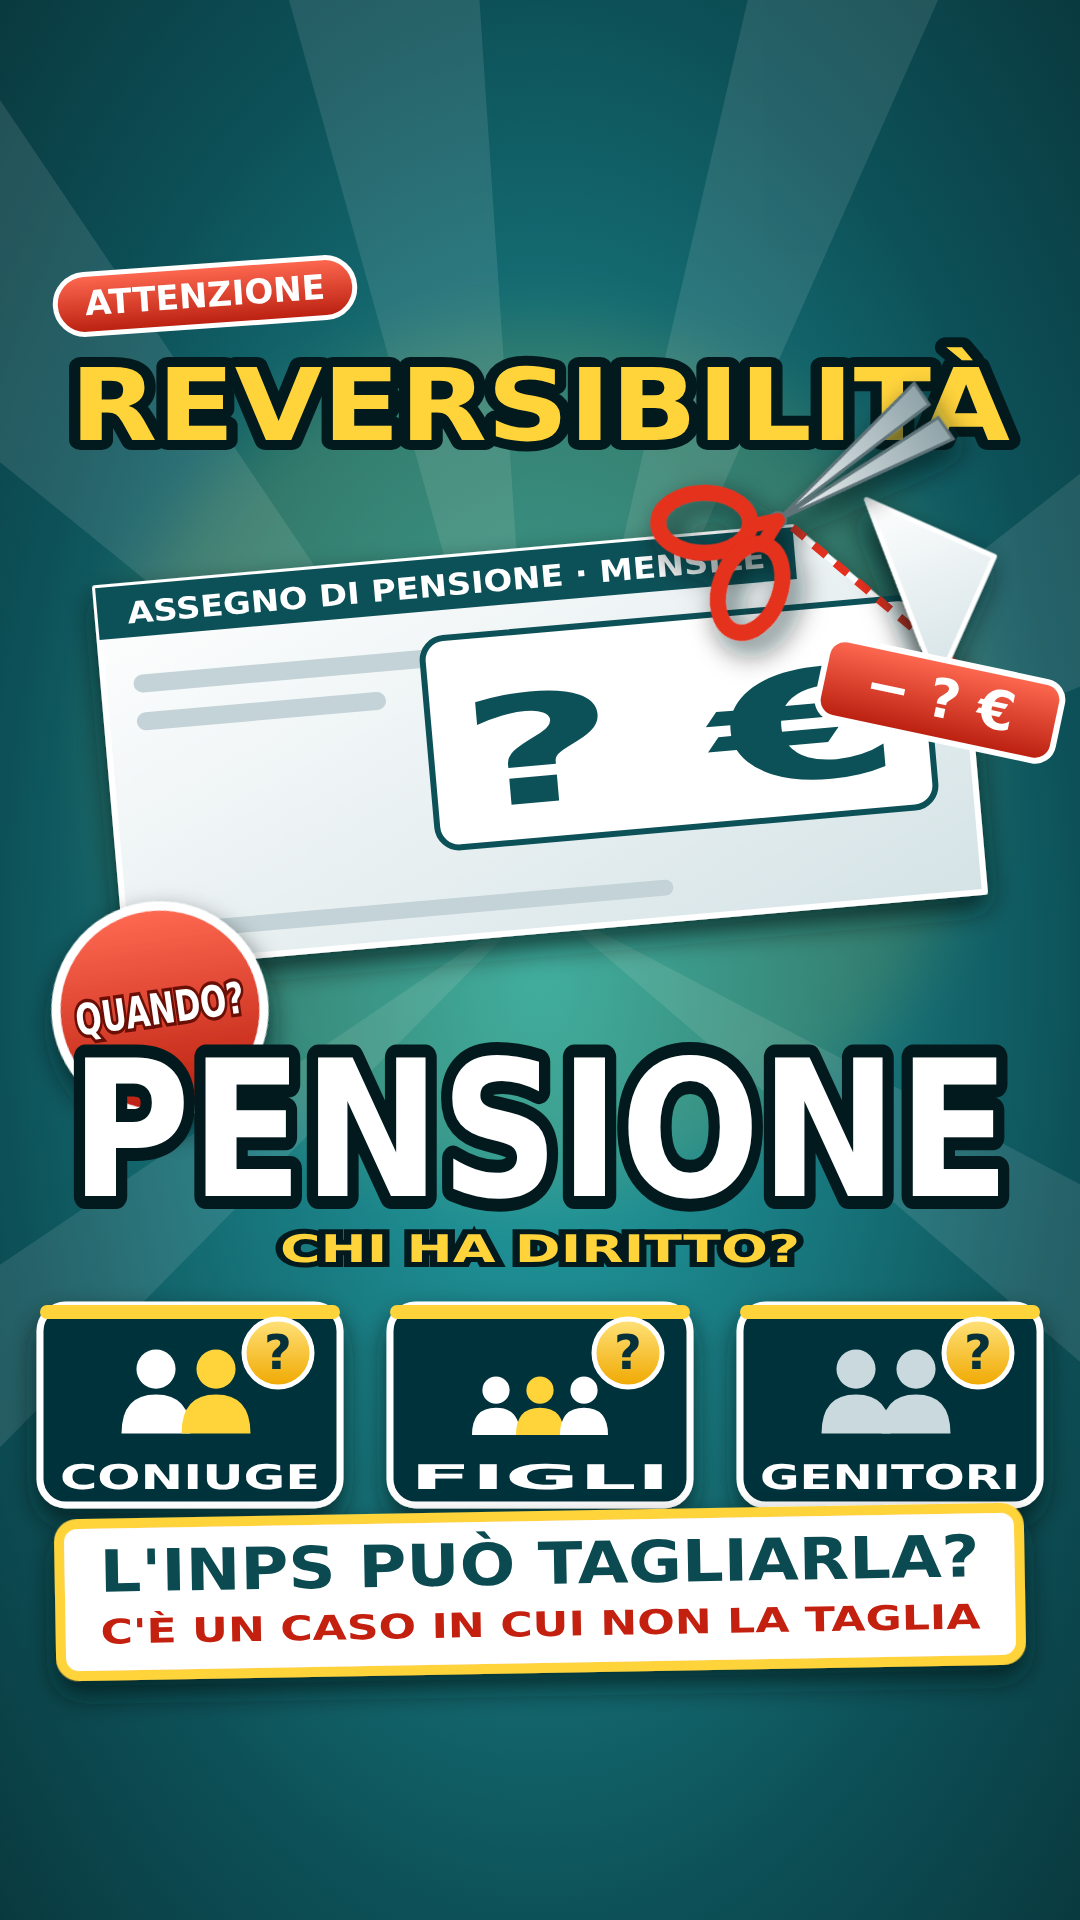
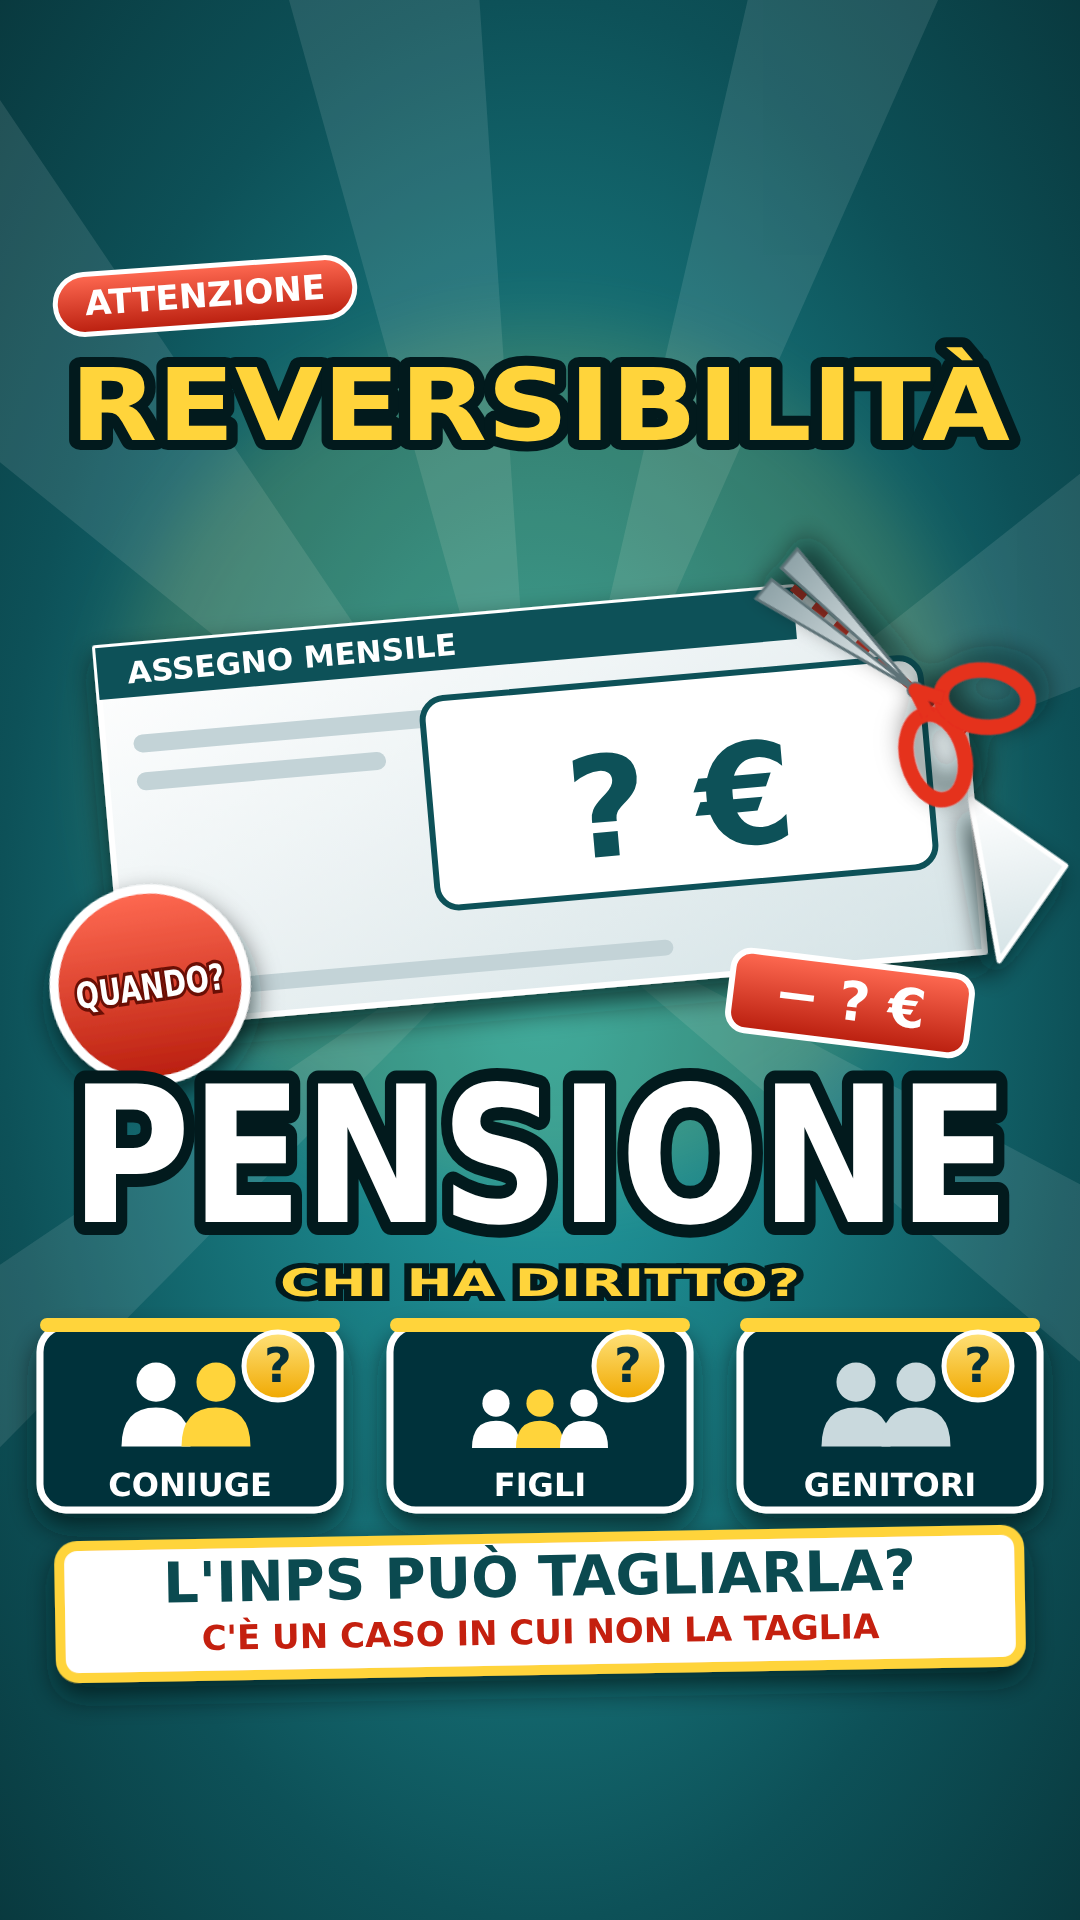
Short 17: pacchetto e miniatura finali
Claude-Session: https://claude.ai/code/session_016ZKFNcdedjJGgTYxcQbmx2

Changed region(s): [[0.0306, 0.1875, 1.0, 0.875]]

diff --git a/conti_in_pensione/37-short-17-teaser-video-lungo-13/miniatura/miniatura-short17.html b/conti_in_pensione/37-short-17-teaser-video-lungo-13/miniatura/miniatura-short17.html
@@ -16,47 +16,47 @@
 <g transform="translate(205 296) rotate(-4)"><rect x="-150" y="-30" width="300" height="60" rx="30" fill="url(#rb)" stroke="#fff" stroke-width="5"/><text class="t" id="tag" x="0" y="11" font-size="34" fill="#fff" text-anchor="middle">ATTENZIONE</text></g>
 <text class="t" id="rev" x="540" y="440" font-size="100" fill="#FFD43B" stroke="#021A1D" stroke-width="20" stroke-linejoin="round" paint-order="stroke" text-anchor="middle" textLength="940" lengthAdjust="spacingAndGlyphs">REVERSIBILITÀ</text>
 <!-- assegno inclinato -->
-<g transform="translate(540 740) rotate(-5)">
+<g transform="translate(540 800) rotate(-5)">
 <g filter="url(#sh)"><path d="M-430 -190 L250 -190 L250 -110 L170 -190 Z" fill="none"/>
 <path d="M-430 -190 L270 -190 L430 -30 L430 190 L-430 190 Z" fill="url(#pp)" stroke="#fff" stroke-width="6" stroke-linejoin="round"/></g>
 <rect x="-430" y="-190" width="700" height="52" fill="#0D5158"/>
-<text class="t" id="hd" x="-400" y="-152" font-size="30" fill="#fff" textLength="640" lengthAdjust="spacingAndGlyphs">ASSEGNO DI PENSIONE · MENSILE</text>
+<text class="t" id="hd" x="-400" y="-152" font-size="30" fill="#fff" textLength="330" lengthAdjust="spacingAndGlyphs">ASSEGNO MENSILE</text>
 <g fill="#C3D3D7"><rect x="-400" y="-100" width="330" height="18" rx="9"/><rect x="-400" y="-62" width="250" height="18" rx="9"/><rect x="-400" y="150" width="520" height="16" rx="8"/></g>
 <rect x="-110" y="-110" width="500" height="210" rx="22" fill="#fff" stroke="#0D5158" stroke-width="6"/>
-<text class="t" id="amt" x="140" y="62" font-size="150" fill="#0D5158" stroke="#fff" stroke-width="6" paint-order="stroke" text-anchor="middle" textLength="440" lengthAdjust="spacingAndGlyphs">? €</text>
+<text class="t" id="amt" x="140" y="62" font-size="140" fill="#0D5158" stroke="#fff" stroke-width="6" paint-order="stroke" text-anchor="middle" >? €</text>
 <!-- linea di taglio -->
 <path d="M270 -190 L430 -30" stroke="#E5301E" stroke-width="8" stroke-dasharray="16 12" fill="none"/>
 </g>
 <!-- lembo che si stacca -->
-<g transform="translate(902 592) rotate(24)"><g filter="url(#sh)"><path d="M-70 -70 L70 -70 L70 70 Z" fill="url(#pp)" stroke="#fff" stroke-width="5" stroke-linejoin="round"/></g></g>
-<g transform="translate(940 700) rotate(12)"><rect x="-120" y="-40" width="240" height="80" rx="18" fill="url(#rb)" stroke="#fff" stroke-width="6"/><text class="t" id="cut" x="0" y="17" font-size="54" fill="#fff" text-anchor="middle">− ? €</text></g>
+<g transform="translate(985 880) rotate(35)"><g filter="url(#sh)"><path d="M-58 -58 L58 -58 L58 58 Z" fill="url(#pp)" stroke="#fff" stroke-width="5" stroke-linejoin="round"/></g></g>
+<g transform="translate(850 1003) rotate(7)"><rect x="-120" y="-40" width="240" height="80" rx="18" fill="url(#rb)" stroke="#fff" stroke-width="6"/><text class="t" id="cut" x="0" y="17" font-size="54" fill="#fff" text-anchor="middle">− ? €</text></g>
 <!-- forbice -->
-<g transform="translate(778 520) rotate(-35)" filter="url(#sh)">
+<g transform="translate(915 690) rotate(-140) scale(0.95)" filter="url(#sh)">
 <path d="M0 0 L190 -34 L190 -8 Z" fill="url(#bl)" stroke="#5E7378" stroke-width="3"/><path d="M0 0 L190 34 L190 8 Z" fill="url(#bl)" stroke="#5E7378" stroke-width="3"/>
 <circle cx="0" cy="0" r="9" fill="#5E7378"/>
 <ellipse cx="-62" cy="-40" rx="46" ry="30" fill="none" stroke="#E5301E" stroke-width="16" transform="rotate(35 -62 -40)"/><ellipse cx="-62" cy="40" rx="46" ry="30" fill="none" stroke="#E5301E" stroke-width="16" transform="rotate(-35 -62 40)"/>
 <path d="M-28 -12 L0 0 L-28 12" fill="none" stroke="#E5301E" stroke-width="14" stroke-linejoin="round"/></g>
 <!-- pallina QUANDO -->
-<g transform="translate(160 1010) rotate(-8)"><circle r="104" fill="url(#rb)" stroke="#fff" stroke-width="9" filter="url(#sh)"/><text class="t" id="q" x="0" y="14" font-size="43" fill="#fff" text-anchor="middle" textLength="170" lengthAdjust="spacingAndGlyphs" stroke="#6A0F05" stroke-width="7" paint-order="stroke">QUANDO?</text></g>
+<g transform="translate(150 985) rotate(-8)"><circle r="96" fill="url(#rb)" stroke="#fff" stroke-width="9" filter="url(#sh)"/><text class="t" id="q" x="0" y="14" font-size="36" fill="#fff" text-anchor="middle" textLength="150" lengthAdjust="spacingAndGlyphs" stroke="#6A0F05" stroke-width="7" paint-order="stroke">QUANDO?</text></g>
 <!-- PENSIONE gigante -->
-<text class="t" id="pen" x="540" y="1196" font-size="190" fill="#fff" stroke="#021A1D" stroke-width="26" stroke-linejoin="round" paint-order="stroke" text-anchor="middle" textLength="940" lengthAdjust="spacingAndGlyphs">PENSIONE</text>
+<text class="t" id="pen" x="540" y="1222" font-size="190" fill="#fff" stroke="#021A1D" stroke-width="26" stroke-linejoin="round" paint-order="stroke" text-anchor="middle" textLength="940" lengthAdjust="spacingAndGlyphs">PENSIONE</text>
 <!-- chi ha diritto -->
-<g transform="translate(540 1262)"><text class="t" id="chi" x="0" y="0" font-size="38" fill="#FFD43B" stroke="#021A1D" stroke-width="10" paint-order="stroke" text-anchor="middle" textLength="520" lengthAdjust="spacingAndGlyphs">CHI HA DIRITTO?</text></g>
-<g transform="translate(190 1405)"><g filter="url(#sh)"><rect x="-150" y="-100" width="300" height="200" rx="26" fill="#06303A" stroke="#fff" stroke-width="7"/></g>
+<g transform="translate(540 1296)"><text class="t" id="chi" x="0" y="0" font-size="38" fill="#FFD43B" stroke="#021A1D" stroke-width="10" paint-order="stroke" text-anchor="middle" textLength="520" lengthAdjust="spacingAndGlyphs">CHI HA DIRITTO?</text></g>
+<g transform="translate(190 1418)"><g filter="url(#sh)"><rect x="-150" y="-92" width="300" height="184" rx="26" fill="#06303A" stroke="#fff" stroke-width="7"/></g>
 <rect x="-150" y="-100" width="300" height="14" rx="7" fill="#FFD43B"/>
 <g transform="translate(-34 -6) scale(1.15)" fill="#FFFFFF"><circle cx="0" cy="-26" r="17"/><path d="M-30 30 Q-30 -4 0 -4 Q30 -4 30 30Z"/></g><g transform="translate(26 -6) scale(1.15)" fill="#FFD43B"><circle cx="0" cy="-26" r="17"/><path d="M-30 30 Q-30 -4 0 -4 Q30 -4 30 30Z"/></g>
 <circle cx="88" cy="-52" r="34" fill="url(#gd)" stroke="#fff" stroke-width="5"/><text class="t" x="88" y="-36" font-size="48" fill="#06303A" text-anchor="middle">?</text>
-<text class="t" id="c_CONIUGE" x="0" y="84" font-size="34" fill="#fff" text-anchor="middle" textLength="260" lengthAdjust="spacingAndGlyphs">CONIUGE</text></g><g transform="translate(540 1405)"><g filter="url(#sh)"><rect x="-150" y="-100" width="300" height="200" rx="26" fill="#06303A" stroke="#fff" stroke-width="7"/></g>
+<text class="t" id="c_CONIUGE" x="0" y="78" font-size="32" fill="#fff" text-anchor="middle">CONIUGE</text></g><g transform="translate(540 1418)"><g filter="url(#sh)"><rect x="-150" y="-92" width="300" height="184" rx="26" fill="#06303A" stroke="#fff" stroke-width="7"/></g>
 <rect x="-150" y="-100" width="300" height="14" rx="7" fill="#FFD43B"/>
 <g transform="translate(-44 6) scale(0.8)" fill="#FFFFFF"><circle cx="0" cy="-26" r="17"/><path d="M-30 30 Q-30 -4 0 -4 Q30 -4 30 30Z"/></g><g transform="translate(0 6) scale(0.8)" fill="#FFD43B"><circle cx="0" cy="-26" r="17"/><path d="M-30 30 Q-30 -4 0 -4 Q30 -4 30 30Z"/></g><g transform="translate(44 6) scale(0.8)" fill="#FFFFFF"><circle cx="0" cy="-26" r="17"/><path d="M-30 30 Q-30 -4 0 -4 Q30 -4 30 30Z"/></g>
 <circle cx="88" cy="-52" r="34" fill="url(#gd)" stroke="#fff" stroke-width="5"/><text class="t" x="88" y="-36" font-size="48" fill="#06303A" text-anchor="middle">?</text>
-<text class="t" id="c_FIGLI" x="0" y="84" font-size="34" fill="#fff" text-anchor="middle" textLength="260" lengthAdjust="spacingAndGlyphs">FIGLI</text></g><g transform="translate(890 1405)"><g filter="url(#sh)"><rect x="-150" y="-100" width="300" height="200" rx="26" fill="#06303A" stroke="#fff" stroke-width="7"/></g>
+<text class="t" id="c_FIGLI" x="0" y="78" font-size="32" fill="#fff" text-anchor="middle">FIGLI</text></g><g transform="translate(890 1418)"><g filter="url(#sh)"><rect x="-150" y="-92" width="300" height="184" rx="26" fill="#06303A" stroke="#fff" stroke-width="7"/></g>
 <rect x="-150" y="-100" width="300" height="14" rx="7" fill="#FFD43B"/>
 <g transform="translate(-34 -6) scale(1.15)" fill="#C9D9DD"><circle cx="0" cy="-26" r="17"/><path d="M-30 30 Q-30 -4 0 -4 Q30 -4 30 30Z"/></g><g transform="translate(26 -6) scale(1.15)" fill="#C9D9DD"><circle cx="0" cy="-26" r="17"/><path d="M-30 30 Q-30 -4 0 -4 Q30 -4 30 30Z"/></g>
 <circle cx="88" cy="-52" r="34" fill="url(#gd)" stroke="#fff" stroke-width="5"/><text class="t" x="88" y="-36" font-size="48" fill="#06303A" text-anchor="middle">?</text>
-<text class="t" id="c_GENITORI" x="0" y="84" font-size="34" fill="#fff" text-anchor="middle" textLength="260" lengthAdjust="spacingAndGlyphs">GENITORI</text></g>
+<text class="t" id="c_GENITORI" x="0" y="78" font-size="32" fill="#fff" text-anchor="middle">GENITORI</text></g>
 <!-- striscia bassa -->
-<g transform="translate(540 1592) rotate(-1)"><g filter="url(#sh)"><rect x="-480" y="-76" width="960" height="152" rx="18" fill="#fff" stroke="#FFD43B" stroke-width="10"/></g>
-<text class="t" id="s1" x="0" y="-8" font-size="58" fill="#0B4A50" text-anchor="middle" textLength="880" lengthAdjust="spacingAndGlyphs">L'INPS PUÒ TAGLIARLA?</text>
-<text class="t" id="s2" x="0" y="44" font-size="34" fill="#C4200F" text-anchor="middle" textLength="880" lengthAdjust="spacingAndGlyphs">C'È UN CASO IN CUI NON LA TAGLIA</text></g>
+<g transform="translate(540 1604) rotate(-1)"><g filter="url(#sh)"><rect x="-480" y="-66" width="960" height="132" rx="18" fill="#fff" stroke="#FFD43B" stroke-width="10"/></g>
+<text class="t" id="s1" x="0" y="-8" font-size="56" fill="#0B4A50" text-anchor="middle">L'INPS PUÒ TAGLIARLA?</text>
+<text class="t" id="s2" x="0" y="40" font-size="34" fill="#C4200F" text-anchor="middle">C'È UN CASO IN CUI NON LA TAGLIA</text></g>
 </svg></body></html>

diff --git a/conti_in_pensione/37-short-17-teaser-video-lungo-13/miniatura/gen17.py b/conti_in_pensione/37-short-17-teaser-video-lungo-13/miniatura/gen17.py
@@ -4,11 +4,11 @@ import os
 from playwright.sync_api import sync_playwright
 CH=next((c for c in ('/opt/pw-browsers/chromium-1243/chrome-linux64/chrome','/opt/pw-browsers/chromium-1194/chrome-linux/chrome') if os.path.exists(c)),None)
 def chip(cx,label,icon):
-    return f'''<g transform="translate({cx} 1405)"><g filter="url(#sh)"><rect x="-150" y="-100" width="300" height="200" rx="26" fill="#06303A" stroke="#fff" stroke-width="7"/></g>
+    return f'''<g transform="translate({cx} 1418)"><g filter="url(#sh)"><rect x="-150" y="-92" width="300" height="184" rx="26" fill="#06303A" stroke="#fff" stroke-width="7"/></g>
 <rect x="-150" y="-100" width="300" height="14" rx="7" fill="#FFD43B"/>
 {icon}
 <circle cx="88" cy="-52" r="34" fill="url(#gd)" stroke="#fff" stroke-width="5"/><text class="t" x="88" y="-36" font-size="48" fill="#06303A" text-anchor="middle">?</text>
-<text class="t" id="c_{label}" x="0" y="84" font-size="34" fill="#fff" text-anchor="middle" textLength="260" lengthAdjust="spacingAndGlyphs">{label}</text></g>'''
+<text class="t" id="c_{label}" x="0" y="78" font-size="32" fill="#fff" text-anchor="middle">{label}</text></g>'''
 def person(x,y,s,col):
     return f'<g transform="translate({x} {y}) scale({s})" fill="{col}"><circle cx="0" cy="-26" r="17"/><path d="M-30 30 Q-30 -4 0 -4 Q30 -4 30 30Z"/></g>'
 ic1=person(-34,-6,1.15,'#FFFFFF')+person(26,-6,1.15,'#FFD43B')
@@ -32,37 +32,37 @@ html=f'''<!doctype html><html><head><meta charset="utf-8"><style>html,body{{marg
 <g transform="translate(205 296) rotate(-4)"><rect x="-150" y="-30" width="300" height="60" rx="30" fill="url(#rb)" stroke="#fff" stroke-width="5"/><text class="t" id="tag" x="0" y="11" font-size="34" fill="#fff" text-anchor="middle">ATTENZIONE</text></g>
 <text class="t" id="rev" x="540" y="440" font-size="100" fill="#FFD43B" stroke="#021A1D" stroke-width="20" stroke-linejoin="round" paint-order="stroke" text-anchor="middle" textLength="940" lengthAdjust="spacingAndGlyphs">REVERSIBILITÀ</text>
 <!-- assegno inclinato -->
-<g transform="translate(540 740) rotate(-5)">
+<g transform="translate(540 800) rotate(-5)">
 <g filter="url(#sh)"><path d="M-430 -190 L250 -190 L250 -110 L170 -190 Z" fill="none"/>
 <path d="M-430 -190 L270 -190 L430 -30 L430 190 L-430 190 Z" fill="url(#pp)" stroke="#fff" stroke-width="6" stroke-linejoin="round"/></g>
 <rect x="-430" y="-190" width="700" height="52" fill="#0D5158"/>
-<text class="t" id="hd" x="-400" y="-152" font-size="30" fill="#fff" textLength="640" lengthAdjust="spacingAndGlyphs">ASSEGNO DI PENSIONE · MENSILE</text>
+<text class="t" id="hd" x="-400" y="-152" font-size="30" fill="#fff" textLength="330" lengthAdjust="spacingAndGlyphs">ASSEGNO MENSILE</text>
 <g fill="#C3D3D7"><rect x="-400" y="-100" width="330" height="18" rx="9"/><rect x="-400" y="-62" width="250" height="18" rx="9"/><rect x="-400" y="150" width="520" height="16" rx="8"/></g>
 <rect x="-110" y="-110" width="500" height="210" rx="22" fill="#fff" stroke="#0D5158" stroke-width="6"/>
-<text class="t" id="amt" x="140" y="62" font-size="150" fill="#0D5158" stroke="#fff" stroke-width="6" paint-order="stroke" text-anchor="middle" textLength="440" lengthAdjust="spacingAndGlyphs">? €</text>
+<text class="t" id="amt" x="140" y="62" font-size="140" fill="#0D5158" stroke="#fff" stroke-width="6" paint-order="stroke" text-anchor="middle" >? €</text>
 <!-- linea di taglio -->
 <path d="M270 -190 L430 -30" stroke="#E5301E" stroke-width="8" stroke-dasharray="16 12" fill="none"/>
 </g>
 <!-- lembo che si stacca -->
-<g transform="translate(902 592) rotate(24)"><g filter="url(#sh)"><path d="M-70 -70 L70 -70 L70 70 Z" fill="url(#pp)" stroke="#fff" stroke-width="5" stroke-linejoin="round"/></g></g>
-<g transform="translate(940 700) rotate(12)"><rect x="-120" y="-40" width="240" height="80" rx="18" fill="url(#rb)" stroke="#fff" stroke-width="6"/><text class="t" id="cut" x="0" y="17" font-size="54" fill="#fff" text-anchor="middle">− ? €</text></g>
+<g transform="translate(985 880) rotate(35)"><g filter="url(#sh)"><path d="M-58 -58 L58 -58 L58 58 Z" fill="url(#pp)" stroke="#fff" stroke-width="5" stroke-linejoin="round"/></g></g>
+<g transform="translate(850 1003) rotate(7)"><rect x="-120" y="-40" width="240" height="80" rx="18" fill="url(#rb)" stroke="#fff" stroke-width="6"/><text class="t" id="cut" x="0" y="17" font-size="54" fill="#fff" text-anchor="middle">− ? €</text></g>
 <!-- forbice -->
-<g transform="translate(778 520) rotate(-35)" filter="url(#sh)">
+<g transform="translate(915 690) rotate(-140) scale(0.95)" filter="url(#sh)">
 <path d="M0 0 L190 -34 L190 -8 Z" fill="url(#bl)" stroke="#5E7378" stroke-width="3"/><path d="M0 0 L190 34 L190 8 Z" fill="url(#bl)" stroke="#5E7378" stroke-width="3"/>
 <circle cx="0" cy="0" r="9" fill="#5E7378"/>
 <ellipse cx="-62" cy="-40" rx="46" ry="30" fill="none" stroke="#E5301E" stroke-width="16" transform="rotate(35 -62 -40)"/><ellipse cx="-62" cy="40" rx="46" ry="30" fill="none" stroke="#E5301E" stroke-width="16" transform="rotate(-35 -62 40)"/>
 <path d="M-28 -12 L0 0 L-28 12" fill="none" stroke="#E5301E" stroke-width="14" stroke-linejoin="round"/></g>
 <!-- pallina QUANDO -->
-<g transform="translate(160 1010) rotate(-8)"><circle r="104" fill="url(#rb)" stroke="#fff" stroke-width="9" filter="url(#sh)"/><text class="t" id="q" x="0" y="14" font-size="43" fill="#fff" text-anchor="middle" textLength="170" lengthAdjust="spacingAndGlyphs" stroke="#6A0F05" stroke-width="7" paint-order="stroke">QUANDO?</text></g>
+<g transform="translate(150 985) rotate(-8)"><circle r="96" fill="url(#rb)" stroke="#fff" stroke-width="9" filter="url(#sh)"/><text class="t" id="q" x="0" y="14" font-size="36" fill="#fff" text-anchor="middle" textLength="150" lengthAdjust="spacingAndGlyphs" stroke="#6A0F05" stroke-width="7" paint-order="stroke">QUANDO?</text></g>
 <!-- PENSIONE gigante -->
-<text class="t" id="pen" x="540" y="1196" font-size="190" fill="#fff" stroke="#021A1D" stroke-width="26" stroke-linejoin="round" paint-order="stroke" text-anchor="middle" textLength="940" lengthAdjust="spacingAndGlyphs">PENSIONE</text>
+<text class="t" id="pen" x="540" y="1222" font-size="190" fill="#fff" stroke="#021A1D" stroke-width="26" stroke-linejoin="round" paint-order="stroke" text-anchor="middle" textLength="940" lengthAdjust="spacingAndGlyphs">PENSIONE</text>
 <!-- chi ha diritto -->
-<g transform="translate(540 1262)"><text class="t" id="chi" x="0" y="0" font-size="38" fill="#FFD43B" stroke="#021A1D" stroke-width="10" paint-order="stroke" text-anchor="middle" textLength="520" lengthAdjust="spacingAndGlyphs">CHI HA DIRITTO?</text></g>
+<g transform="translate(540 1296)"><text class="t" id="chi" x="0" y="0" font-size="38" fill="#FFD43B" stroke="#021A1D" stroke-width="10" paint-order="stroke" text-anchor="middle" textLength="520" lengthAdjust="spacingAndGlyphs">CHI HA DIRITTO?</text></g>
 {chip(190,'CONIUGE',ic1)}{chip(540,'FIGLI',ic2)}{chip(890,'GENITORI',ic3)}
 <!-- striscia bassa -->
-<g transform="translate(540 1592) rotate(-1)"><g filter="url(#sh)"><rect x="-480" y="-76" width="960" height="152" rx="18" fill="#fff" stroke="#FFD43B" stroke-width="10"/></g>
-<text class="t" id="s1" x="0" y="-8" font-size="58" fill="#0B4A50" text-anchor="middle" textLength="880" lengthAdjust="spacingAndGlyphs">L'INPS PUÒ TAGLIARLA?</text>
-<text class="t" id="s2" x="0" y="44" font-size="34" fill="#C4200F" text-anchor="middle" textLength="880" lengthAdjust="spacingAndGlyphs">C'È UN CASO IN CUI NON LA TAGLIA</text></g>
+<g transform="translate(540 1604) rotate(-1)"><g filter="url(#sh)"><rect x="-480" y="-66" width="960" height="132" rx="18" fill="#fff" stroke="#FFD43B" stroke-width="10"/></g>
+<text class="t" id="s1" x="0" y="-8" font-size="56" fill="#0B4A50" text-anchor="middle">L'INPS PUÒ TAGLIARLA?</text>
+<text class="t" id="s2" x="0" y="40" font-size="34" fill="#C4200F" text-anchor="middle">C'È UN CASO IN CUI NON LA TAGLIA</text></g>
 </svg></body></html>'''
 here=os.path.dirname(os.path.abspath(__file__))
 open(here+'/miniatura-short17.html','w',encoding='utf-8').write(html)

diff --git a/conti_in_pensione/REGOLE-FISSE.md b/conti_in_pensione/REGOLE-FISSE.md
@@ -936,3 +936,7 @@ STATO 27/10/2026 (video 12, coefficienti 2027): copione + 15 clip slide CIP-V12-
 - ERRORI di questa chat (scritti sopra): copione consegnato con frase falsa nel blocco 2 (N.42); versione corretta mandata solo nell'output di un comando e non in chat (il messaggio deve contenere il testo); scuse non verificabili ("contesto pieno") dette all'utente.
 
 - (03/11, utente: "E perfetto? Senza errori? Hai seguito tutte le regole?") Rifatto il controllo prima di rispondere: numeri a lettere verificati con un convertitore, cifre e date riverificate sui testi ufficiali, regole della checklist: trovato 1 difetto nel BLOCCO 10 del copione del video 15 (dicevo "i nuclei dell'elenco dell'Inps", ma l'art. 6 c.3 scrive solo "nell'ambito dell'elenco predisposto" e non dice di chi sia). Corretto alla lettera (blocco 10: "Per l'articolo sei, i Comuni danno le carte avanzate dopo le tre fasce scegliendo, nell'elenco predisposto, i nuclei in effettivo stato di bisogno, anche di una persona"), rifatti qa_copione, 2 giri a oltre 90 s e revisione; copione rimandato INTERO. REGOLA: quando una frase del copione riporta un articolo, copiare i soggetti alla lettera: non aggiungere chi fa cosa (Inps, Comuni, Poste) se l'articolo non lo scrive; prima di consegnare, confrontare ogni frase con articolo e comma e controllare i soggetti.
+
+## STATO 03/11/2026 - SHORT 17: PACCHETTO + MINIATURA (37-short-17-teaser-video-lungo-13)
+- pacchetto.txt (qa_testi OK: titolo 75 "PENSIONE DI REVERSIBILITA' 2026: l'Inps puo' TAGLIARLA? Quando e di quanto", 20 tag = 487/500, 9 hashtag; vidIQ 0 crediti, titolo non misurato) consegnato in chat dopo che la prima volta era rimasto solo nel file (ERRORE: il pacchetto va SEMPRE scritto nel messaggio, mai solo in un file o nell'output di un comando).
+- miniatura/miniatura-short17.png (gen17.py; layout nuovo: assegno inclinato con forbice e "? €", pallina QUANDO?, PENSIONE gigante, tre schede CONIUGE/FIGLI/GENITORI con "?", striscia "L'INPS PUO' TAGLIARLA?"; nessuna cifra svelata; testi misurati e guardati; tolto l'allargamento forzato delle lettere su FIGLI e sulla striscia).
